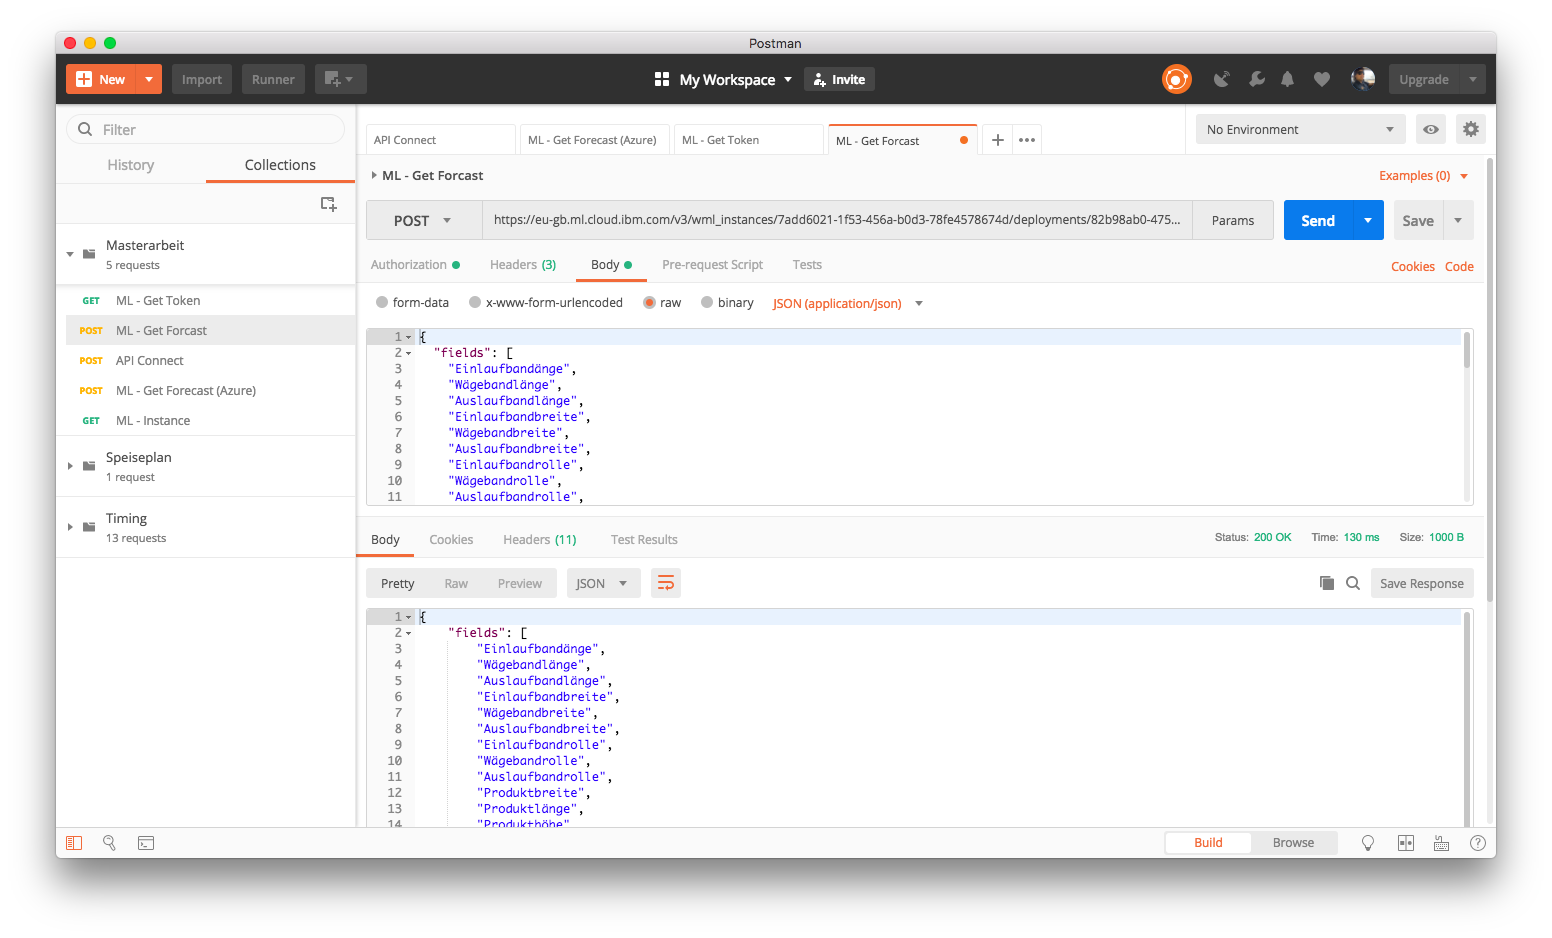
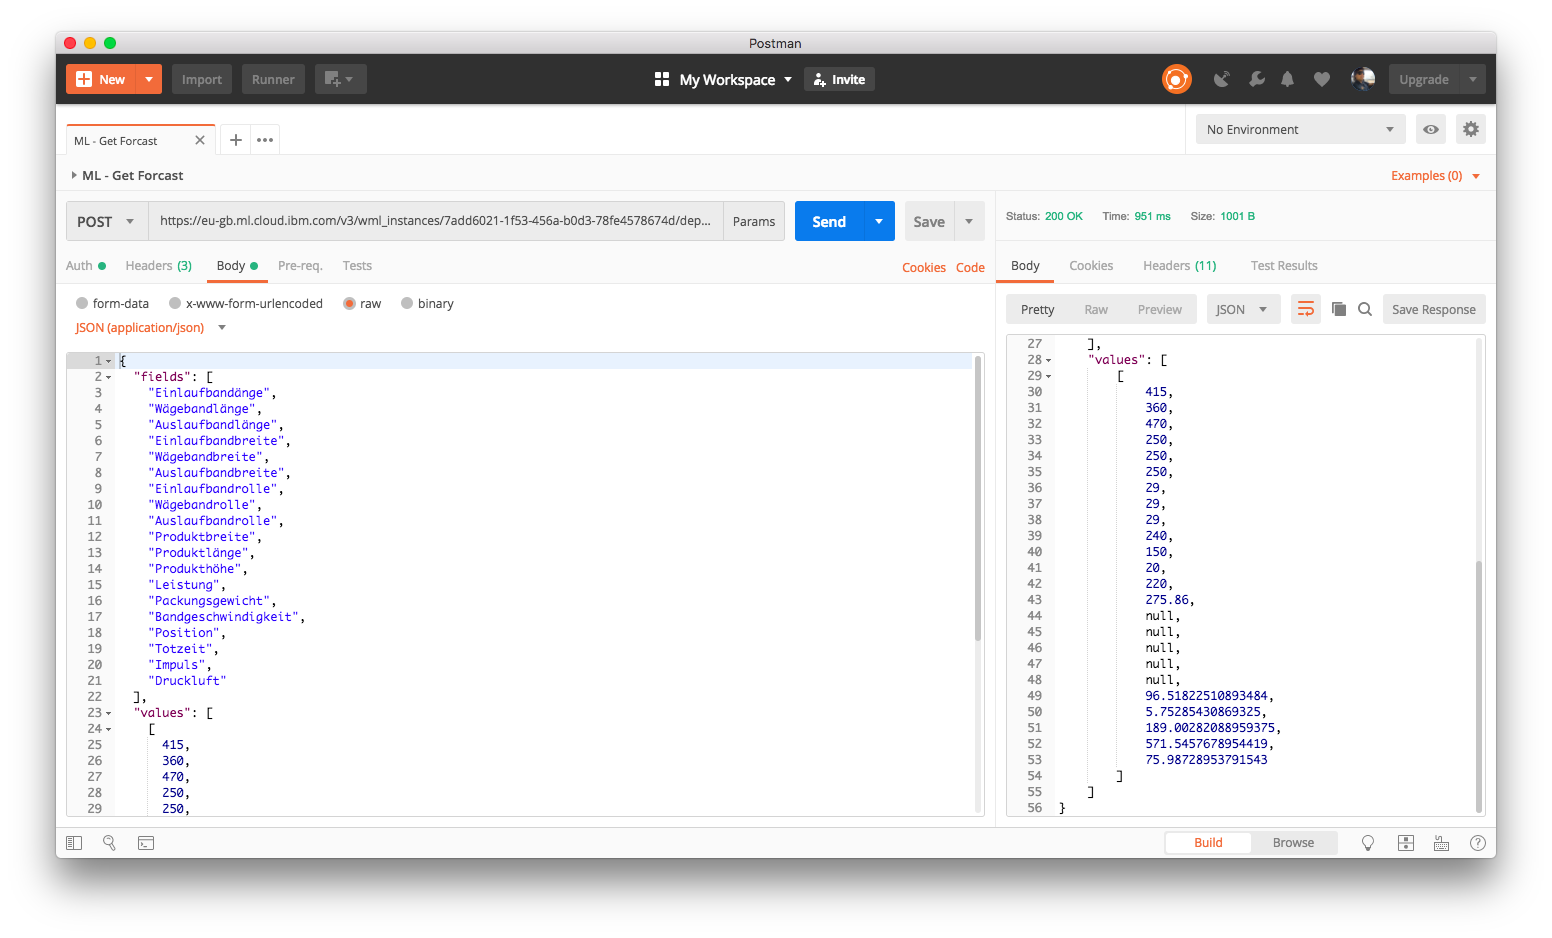
Updateing some chapters and an image.

diff --git a/content/3_Neuronales_Netz/33_Umsetzung.tex b/content/3_Neuronales_Netz/33_Umsetzung.tex
@@ -385,8 +385,9 @@ In Postman kann man diesen Aufruf über die Eingabe der URL und dem HTTP-Type \t
 \textit{Authentication} ist der Type \textit{Basic-Auth} auszuwählen.
 
 Im rechten Bereich sollten dann die beiden Eingabefelder für Benutzername und Passwort erscheinen. Der Nutzer muss die
-geforderten Daten eingeben und kann dann den Request mit der Schaltfläche \texttt{Send} starten. Nach wenigen Sekunden
-erscheint im Bereich \textit{Body} der Token in einem JSON-Objekt. Ähnlich dem Aufruf mit \textit{curl}.
+geforderten Daten eingeben und kann dann den Request mit der Schaltfläche \texttt{Send} starten.
+
+Nach wenigen Sekunden erscheint im Bereich \textit{Body} der Token in einem JSON-Objekt. Ähnlich dem Aufruf mit \textit{curl}.
 
 Um nun das eigentliche Deployment aufzurufen, muss man einen neuen Postman-Tab öffnen. Die URL für den Endpunkt ist im
 Deployment des Models zu finden und heißt \texttt{Scoring End-point}.
@@ -396,16 +397,18 @@ Nachdem die URL des Postman-Requests definiert ist, kann man als HTTP-Type \text
 entspricht dem Rückgabewert des vorangegangenen Postman-Requests.
 
 Die Auswahl des HTTP-Types \textit{POST} ermöglicht die definition des Bereichs \texttt{Body} für den Request. Dabei
-handelt es sich um Parameter, welche an die Schnittstelle geschickt werden. Als Datentyp muss man \textit{raw} und als
-Type \textit{JSON (application/json)} auswählen. Im Anhang \ref{sec:postmanTestparameter} auf Seite
-\pageref{sec:postmanTestparameter} sind Testparameter zu finden, welche als Eingabe genutzt werden können.
+handelt es sich um Parameter, welche an die Schnittstelle geschickt werden.
+
+Als Datentyp muss man \textit{raw} und als Type \textit{JSON (application/json)} auswählen. Im Anhang
+\ref{sec:postmanTestparameter} auf Seite \pageref{sec:postmanTestparameter} sind Testparameter zu finden, welche als
+Eingabe genutzt werden können.
 
 Der Nutzer kann abschließend den Request über den Button \texttt{Send} an den Web Service abschicken. Nach wneigen
 Sekunden zeigt Postman den erhaltenen Response des neuronalen Netzes an. Hier sollten auch die Vorhersagen enthalten sein.
 
-Auf der Übersichtsseite des REST-Interfaces des
-Deployments\footnote{https://watson\-ml\-api.mybluemix.net/?cm\_mc\_uid=61889453441915363064337}, sind noch weitere
-Endpunkte und die dafür benötigten Parameter sowie die Rückgabewerte ersichtlich.
+In der Abbildung \ref{fig:umsetzung_deployment_postman} auf Seite \pageref{fig:umsetzung_deployment_postman} ist ein
+Beispielrequest aus Postman auf das Deployment zu sehen. Im linken Bereich sieht man das gesendete JSON-Object, mit den
+Eingabevariablen. Dabei hat das JSON-Objekt die beiden geforderten Items \textit{fields} und \textit{values}.
 
 \begin{figure}[h]
     \centering
@@ -413,6 +416,16 @@ Endpunkte und die dafür benötigten Parameter sowie die Rückgabewerte ersichtl
     \caption{Beispielrequest von Postman}
     \label{fig:umsetzung_deployment_postman}
 \end{figure}
+
+Die Rechte Seite zeigt die Antwort des Web-Service. Dabei werden zu Anfang des JSON-Objektes die Parameter wiederholt,
+die an das Interface gesendet wurden. Am Ende sind die vorhergesagten Parameter durch das trainierte Model zu sehen.
+
+Im Eingabe-Parameter \textit{values} müssen die Output-Parameter definiert werden. Da die Werte keine Rolle spielen,
+werden die Werte \textit{null} initialisiert. Damit werden sie vom System nicht weiter verwendet.
+
+Auf der Übersichtsseite des REST-Interfaces des
+Deployments\footnote{https://watson\-ml\-api.mybluemix.net/?cm\_mc\_uid=61889453441915363064337}, sind noch weitere
+Endpunkte und die dafür benötigten Parameter sowie die Rückgabewerte ersichtlich.
 
 \subsection{TensorFlow.js}
 Das neuronale Netz ist nun erfolgreich in einem Deployment online zur Verfügung gestellt. Außerdem ist die Funktion
